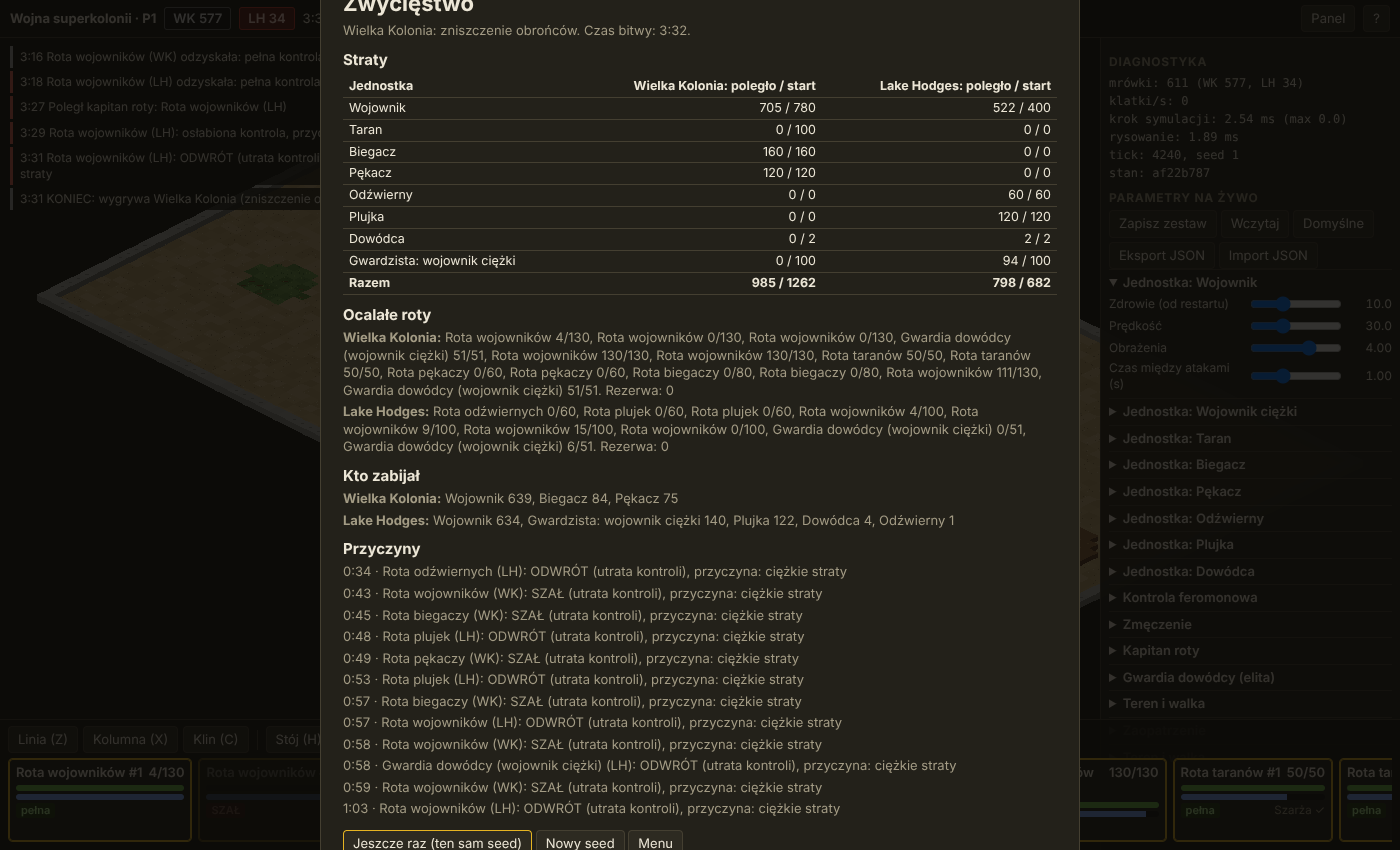
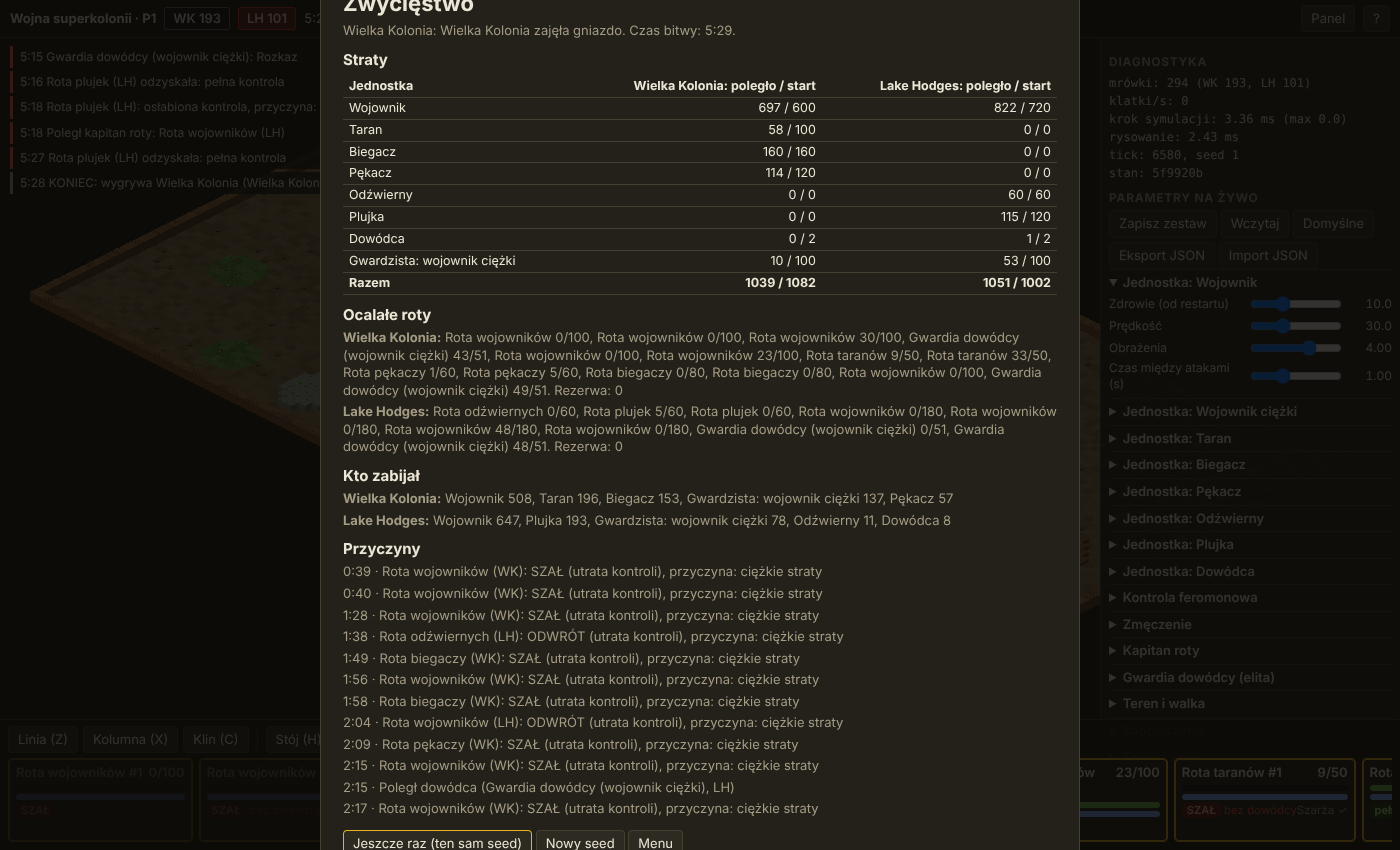
P1: nowa mapa (dno lasu, 2000x1200): pień z przesmykiem i bocznicą, głazy, korzenie, kłody; 6 przejść relaksacji kolizji
Claude-Session: https://claude.ai/code/session_015bWVywXDmmptfndPZFffbj

diff --git a/prototypy/p1-bitwa.html b/prototypy/p1-bitwa.html
@@ -90,7 +90,7 @@ table.rep{border-collapse:collapse;width:100%;margin:6px 0;font-size:12.5px}tabl
       <button id="cWK" class="on">Wielka Kolonia (czarna)<small>Masa, centralne dowodzenie, tarany, biegacze, pękacze. Atakujesz.</small></button>
       <button id="cLH">Lake Hodges (czerwona)<small>Odźwierni, plujki z kwasem, wytrzymałe roty. Bronisz gniazda.</small></button>
     </div>
-    <div class="row" style="grid-template-columns:150px 1fr 50px"><span>Szerokość przejścia</span><input type="range" id="mPass" min="32" max="320" step="16" value="192"><span class="v" id="mPassV">192</span></div>
+    <div class="row" style="grid-template-columns:150px 1fr 50px"><span>Szerokość głównego przesmyku</span><input type="range" id="mPass" min="32" max="320" step="16" value="192"><span class="v" id="mPassV">192</span></div>
     <div class="row" style="grid-template-columns:150px 1fr 50px"><span>Ziarno (seed)</span><input type="number" id="mSeed" value="1" min="0" style="width:90px"><span></span></div>
     <div class="row" style="grid-template-columns:150px 1fr 50px"><span>Gwardia dowódcy</span><select id="mGuard"><option value="infantry">lekka (wojownicy)</option><option value="ciezki" selected>ciężka (wojownicy ciężcy)</option><option value="biegacz">biegacze</option><option value="taran">tarany</option><option value="pekacz">pękacze</option><option value="odzwierny">odźwierni</option><option value="plujka">plujki</option></select><span></span></div>
     <div class="row" style="grid-template-columns:150px 1fr 50px"><span>Tryb</span><label><input type="checkbox" id="mObs"> obserwuj (AI przeciw AI)</label><span></span></div>
@@ -105,14 +105,33 @@ table.rep{border-collapse:collapse;width:100%;margin:6px 0;font-size:12.5px}tabl
 <!-- Definicje jednostek, zasobów i scenariusza: wspólne dla P1-P3 (sekcja 15.1). -->
 <script type="application/json" id="defs">
 {
-  "world": { "w": 1600, "h": 960, "passage": 192, "timeLimit": 900, "wallX": 800, "nest": [1440, 480], "nestR": 64 },
+  "world": {
+    "w": 2000, "h": 1200, "passage": 192, "timeLimit": 900, "gap": [1000, 600], "nest": [1800, 600], "nestR": 64, "retreatWK": [110, 600],
+    "map": {
+      "comment": "Dno lasu: pień z głównym przesmykiem (szerokość = passage) i wąską bocznicą, kilka głazów, korzeni i kłód. Typy: wood, stone, root. Współrzędne to jednostki świata; gapTop i gapBottom to brzegi głównego przesmyku.",
+      "obstacles": [
+        { "type": "wood", "r": 24, "line": [[1010, 0], [1000, 140]] },
+        { "type": "wood", "r": 24, "line": [[1000, 205], [985, 300], [1015, 420], "gapTop"] },
+        { "type": "wood", "r": 24, "line": ["gapBottom", [1020, 820], [985, 1000], [1005, 1200]] },
+        { "type": "stone", "r": 62, "at": [520, 330] },
+        { "type": "root", "r": 72, "at": [570, 880] },
+        { "type": "wood", "r": 14, "line": [[640, 520], [705, 700]] },
+        { "type": "stone", "r": 55, "at": [560, 1090] },
+        { "type": "stone", "r": 66, "at": [1350, 320] },
+        { "type": "stone", "r": 72, "at": [1390, 900] },
+        { "type": "wood", "r": 14, "line": [[1500, 470], [1570, 740]] },
+        { "type": "root", "r": 60, "at": [1650, 200] }
+      ],
+      "coverRandom": 14
+    }
+  },
   "params": {
     "cover": 0.7,
     "shieldMult": 0.4,
     "closedMult": 0.7,
     "cdScale": 1.5,
     "dmgVariance": 0.3,
-    "collision": { "passes": 3, "fightMass": 8 },
+    "collision": { "passes": 6, "fightMass": 8 },
     "captain": { "shock": 20, "dur": 15, "regenPenalty": 4 },
     "elite": { "hp": 1.7, "dmg": 1.3, "cd": 0.85, "armor": 0.12, "speed": 1.0 },
     "control": {
@@ -151,36 +170,36 @@ table.rep{border-collapse:collapse;width:100%;margin:6px 0;font-size:12.5px}tabl
     "attacker": "WK",
     "sides": {
       "WK": {
-        "name": "Wielka Kolonia", "guardType": "ciezki", "regenBonus": 0, "supply": 60, "reserve": 150, "auraR": 260, "spawn": [50, 200, 140, 560],
+        "name": "Wielka Kolonia", "guardType": "infantry", "regenBonus": 0, "supply": 60, "reserve": 150, "auraR": 260, "spawn": [50, 300, 140, 600],
         "companies": [
-          { "role": "assault", "at": [340, 480], "face": 0, "units": { "infantry": 100 }, "delay": 0 },
-          { "role": "assault", "at": [340, 250], "face": 0, "units": { "infantry": 100 }, "delay": 5 },
-          { "role": "assault", "at": [340, 710], "face": 0, "units": { "infantry": 100 }, "delay": 5 },
-          { "role": "command", "at": [235, 480], "face": 0, "units": { "@guard": 50, "dowodca": 1 }, "delay": 16 },
-          { "role": "assault", "at": [235, 250], "face": 0, "units": { "infantry": 100 }, "delay": 22 },
-          { "role": "assault", "at": [235, 710], "face": 0, "units": { "infantry": 100 }, "delay": 22 },
-          { "role": "taran",   "at": [135, 400], "face": 0, "units": { "taran": 50 }, "delay": 0 },
-          { "role": "taran",   "at": [135, 560], "face": 0, "units": { "taran": 50 }, "delay": 2 },
-          { "role": "pekacz",  "at": [135, 240], "face": 0, "units": { "pekacz": 60 }, "delay": 10 },
-          { "role": "pekacz",  "at": [135, 720], "face": 0, "units": { "pekacz": 60 }, "delay": 12 },
-          { "role": "raider",  "at": [45, 320],  "face": 0, "units": { "biegacz": 80 }, "delay": 18 },
-          { "role": "raider",  "at": [45, 640],  "face": 0, "units": { "biegacz": 80 }, "delay": 22 },
-          { "role": "assault", "at": [45, 480],  "face": 0, "units": { "infantry": 100 }, "delay": 26 },
-          { "role": "command", "at": [235, 880], "face": 0, "units": { "@guard": 50, "dowodca": 1 }, "delay": 24 }
+          { "role": "assault", "at": [340, 600], "face": 0, "units": { "infantry": 100 }, "delay": 0 },
+          { "role": "assault", "at": [340, 370], "face": 0, "units": { "infantry": 100 }, "delay": 5 },
+          { "role": "assault", "at": [340, 830], "face": 0, "units": { "infantry": 100 }, "delay": 5 },
+          { "role": "command", "at": [235, 600], "face": 0, "units": { "@guard": 50, "dowodca": 1 }, "delay": 0 },
+          { "role": "assault", "at": [235, 370], "face": 0, "units": { "infantry": 100 }, "delay": 22 },
+          { "role": "assault", "at": [235, 830], "face": 0, "units": { "infantry": 100 }, "delay": 22 },
+          { "role": "taran",   "at": [135, 520], "face": 0, "units": { "taran": 50 }, "delay": 0 },
+          { "role": "taran",   "at": [135, 680], "face": 0, "units": { "taran": 50 }, "delay": 2 },
+          { "role": "pekacz",  "at": [135, 360], "face": 0, "units": { "pekacz": 60 }, "delay": 10 },
+          { "role": "pekacz",  "at": [135, 840], "face": 0, "units": { "pekacz": 60 }, "delay": 12 },
+          { "role": "raider",  "at": [45, 440],  "face": 0, "units": { "biegacz": 80 }, "delay": 18 },
+          { "role": "raider",  "at": [45, 760],  "face": 0, "units": { "biegacz": 80 }, "delay": 22 },
+          { "role": "assault", "at": [45, 600],  "face": 0, "units": { "infantry": 100 }, "delay": 26 },
+          { "role": "command", "at": [235, 1000], "face": 0, "units": { "@guard": 50, "dowodca": 1 }, "delay": 0 }
         ]
       },
       "LH": {
-        "name": "Lake Hodges", "guardType": "ciezki", "regenBonus": 2, "supply": 60, "reserve": 150, "auraR": 170, "spawn": [1410, 450, 60, 60],
+        "name": "Lake Hodges", "guardType": "ciezki", "regenBonus": 2, "supply": 60, "reserve": 150, "auraR": 170, "spawn": [1770, 570, 60, 60],
         "companies": [
-          { "role": "plug", "closed": true, "spacing": 10.4, "at": [800, 480], "face": 3.14159, "units": { "odzwierny": 60 } },
-          { "role": "artillery", "at": [865, 400], "face": 3.14159, "units": { "plujka": 60 } },
-          { "role": "artillery", "at": [865, 570], "face": 3.14159, "units": { "plujka": 60 } },
-          { "role": "reserve", "at": [940, 270], "face": 3.14159, "units": { "infantry": 180 } },
-          { "role": "reserve", "at": [940, 690], "face": 3.14159, "units": { "infantry": 180 } },
-          { "role": "reserve", "at": [1070, 370], "face": 3.14159, "units": { "infantry": 180 } },
-          { "role": "reserve", "at": [1070, 600], "face": 3.14159, "units": { "infantry": 180 } },
-          { "role": "reserve", "at": [950, 480], "face": 3.14159, "units": { "@guard": 50, "dowodca": 1 } },
-          { "role": "reserve", "at": [1170, 485], "face": 3.14159, "units": { "@guard": 50, "dowodca": 1 } }
+          { "role": "plug", "closed": true, "spacing": 10.4, "at": [1000, 600], "face": 3.14159, "units": { "odzwierny": 60 } },
+          { "role": "artillery", "at": [1065, 520], "face": 3.14159, "units": { "plujka": 60 } },
+          { "role": "artillery", "at": [1065, 690], "face": 3.14159, "units": { "plujka": 60 } },
+          { "role": "reserve", "at": [1140, 390], "face": 3.14159, "units": { "infantry": 180 } },
+          { "role": "reserve", "at": [1140, 810], "face": 3.14159, "units": { "infantry": 180 } },
+          { "role": "reserve", "at": [1270, 490], "face": 3.14159, "units": { "infantry": 180 } },
+          { "role": "reserve", "at": [1270, 720], "face": 3.14159, "units": { "infantry": 180 } },
+          { "role": "reserve", "at": [1150, 600], "face": 3.14159, "units": { "@guard": 50, "dowodca": 1 } },
+          { "role": "reserve", "at": [1370, 605], "face": 3.14159, "units": { "@guard": 50, "dowodca": 1 } }
         ]
       }
     }
@@ -263,30 +282,42 @@ const Sim = (function () {
     sim.rebuildTables = buildTables;
 
     // ---------- teren ----------
-    // 0 otwarte, 1 mur (ludzki), 2 osłona (trawa, patyki), 3 mur gniazda
+    // 0 otwarte, 1 pień lub kłoda, 2 osłona (mech, paprocie), 3 mur gniazda, 4 głaz, 5 korzenie; blokują 1, 3, 4 i 5
     const grid = new Uint8Array(COLS * ROWS);
-    const midY = H / 2, wallX = defs.world.wallX, passage = defs.world.passage;
+    const BLK = new Uint8Array([0, 1, 0, 1, 1, 1]);
+    const gap = defs.world.gap, passage = defs.world.passage;
     const nestC = defs.world.nest;
     (function buildTerrain() {
+      const TYPE = { wood: 1, stone: 4, root: 5 };
+      const pt = (p) => (p === 'gapTop' ? [gap[0], gap[1] - passage / 2] : p === 'gapBottom' ? [gap[0], gap[1] + passage / 2] : p);
+      const segDist = (px, py, a, b) => { const dx = b[0] - a[0], dy = b[1] - a[1], l2 = dx * dx + dy * dy || 1; const t = Math.max(0, Math.min(1, ((px - a[0]) * dx + (py - a[1]) * dy) / l2)); return Math.hypot(px - a[0] - t * dx, py - a[1] - t * dy); };
+      const obs = defs.world.map.obstacles.map((o) => ({ v: TYPE[o.type], r: o.r, at: o.at, line: o.line && o.line.map(pt) }));
       for (let r = 0; r < ROWS; r++) for (let c = 0; c < COLS; c++) {
         const cx = (c + 0.5) * CELL, cy = (r + 0.5) * CELL;
         let v = 0;
         if (r === 0 || c === 0 || r === ROWS - 1 || c === COLS - 1) v = 1;
-        else if (Math.abs(cx - wallX) < CELL && Math.abs(cy - midY) > passage / 2) v = 1;
         else {
+          for (const o of obs) {
+            let d;
+            if (o.at) d = Math.hypot(cx - o.at[0], cy - o.at[1]);
+            else { d = 1e9; for (let k = 0; k + 1 < o.line.length; k++) d = Math.min(d, segDist(cx, cy, o.line[k], o.line[k + 1])); }
+            if (d < o.r) { v = o.v; break; }
+          }
+          // główny przesmyk zawsze otwarty na całej szerokości
+          if (Math.abs(cx - gap[0]) < 40 && Math.abs(cy - gap[1]) <= passage / 2) v = 0;
           const dx = cx - nestC[0], dy = cy - nestC[1], d = Math.hypot(dx, dy);
           if (d > 4.3 * CELL && d < 5.5 * CELL) {
             let da = Math.atan2(dy, dx) - Math.PI;
             da = Math.atan2(Math.sin(da), Math.cos(da));
-            if (Math.abs(da) > 0.4) v = 3;
-          }
+            v = Math.abs(da) > 0.4 ? 3 : 0;
+          } else if (d <= 4.3 * CELL) v = 0;
         }
         grid[r * COLS + c] = v;
       }
-      const patches = 12;
+      const patches = defs.world.map.coverRandom;
       for (let k = 0; k < patches; k++) {
         const west = k < patches / 2;
-        const px = west ? rngMap.range(180, 700) : rngMap.range(900, 1300);
+        const px = west ? rngMap.range(150, gap[0] - 150) : rngMap.range(gap[0] + 150, nestC[0] - 200);
         const py = rngMap.range(100, H - 100), pr = rngMap.range(2, 4) * CELL;
         for (let r = 0; r < ROWS; r++) for (let c = 0; c < COLS; c++) {
           if (grid[r * COLS + c] !== 0) continue;
@@ -298,7 +329,7 @@ const Sim = (function () {
     function cellAt(x, y) { return ((y / CELL) | 0) * COLS + ((x / CELL) | 0); }
     function blocked(x, y) {
       if (x < 0 || y < 0 || x >= W || y >= H) return true;
-      const v = grid[cellAt(x, y)]; return v === 1 || v === 3;
+      return BLK[grid[cellAt(x, y)]] === 1;
     }
     function losClear(x0, y0, x1, y1) {
       const dx = x1 - x0, dy = y1 - y0, d = Math.hypot(dx, dy), n = Math.ceil(d / 6);
@@ -324,7 +355,7 @@ const Sim = (function () {
       f = new Int32Array(COLS * ROWS).fill(-1);
       const q = [key]; f[key] = 0;
       const nb = [[1, 0, 10], [-1, 0, 10], [0, 1, 10], [0, -1, 10], [1, 1, 14], [1, -1, 14], [-1, 1, 14], [-1, -1, 14]];
-      const isB = (i) => grid[i] === 1 || grid[i] === 3;
+      const isB = (i) => BLK[grid[i]] === 1;
       for (let h = 0; h < q.length; h++) {
         const cur = q[h], cx = cur % COLS, cy = (cur / COLS) | 0;
         for (const [dx, dy, w] of nb) {
@@ -560,7 +591,7 @@ const Sim = (function () {
         for (const c of list) useAbility(c);
       }
     }
-    function retreatPoint(c) { return c.side === 0 ? nearestOpen(110, 480) : nearestOpen(nestC[0] - 20, nestC[1]); }
+    function retreatPoint(c) { return c.side === 0 ? nearestOpen(defs.world.retreatWK[0], defs.world.retreatWK[1]) : nearestOpen(nestC[0] - 20, nestC[1]); }
     function useAbility(c) {
       if (tick < c.abilCdUntil || !c.abilType) return false;
       const u = defs.units[c.abilType], ab = u.ability;
@@ -894,7 +925,6 @@ const Sim = (function () {
       const sn = SIDES[s], t = tick / HZ, mine = comps.filter((c) => c.side === s && c.alive > 0), foes = comps.filter((c) => c.side !== s && c.alive > 0);
       if (!foes.length) return;
       const attacker = defs.scenario.attacker === sn;
-      const gap = [wallX, midY];
       for (const c of mine) {
         if (c.cstate === CS_LOST) continue;
         const foeNear = foes.filter((e) => dist(c, e) < 260).sort((a, b) => dist(c, a) - dist(c, b));
@@ -916,7 +946,7 @@ const Sim = (function () {
             if (tick >= c.aiUntil) order(c, 'attack', nestC[0], nestC[1], 3);
             if (tgt && dist(c, tgt) < 110) useAbility(c);
           } else {
-            if (c.alive < 0.3 * c.initial && c.cstate !== CS_FULL) { order(c, 'retreat', 110, midY, 8); }
+            if (c.alive < 0.3 * c.initial && c.cstate !== CS_FULL) { order(c, 'retreat', defs.world.retreatWK[0], defs.world.retreatWK[1], 8); }
             else if (tick >= c.aiUntil) order(c, 'attack', nestC[0], nestC[1], 3);
             if (c.role === 'taran' && nearestFoe && dist(c, nearestFoe) < 110) useAbility(c);
           }
@@ -1102,7 +1132,8 @@ if (typeof module !== 'undefined') module.exports = Sim;
   // cień pada w prawo-dół. Mrówki są malowane w wysokiej rozdzielczości (atlas 2,5x większy niż rozmiar na ekranie).
   const ISO = {
     S: 2, pad: 24,
-    get ox() { return 960 * 0.5 * this.S + this.pad; },
+    H: 960, // wysokość świata (ustawiana przy starcie sceny)
+    get ox() { return this.H * 0.5 * this.S + this.pad; },
     sx(x, y) { return this.ox + (x - y) * 0.5 * this.S; },
     sy(x, y) { return (x + y) * 0.25 * this.S + this.pad; },
     wx(cx, cy) { const u = (cx - this.ox) * 2 / this.S, v = (cy - this.pad) * 4 / this.S; return (u + v) / 2; },
@@ -1184,42 +1215,61 @@ if (typeof module !== 'undefined') module.exports = Sim;
     tile(c, cx, top - h, cTop);
   }
   function makeIsoTerrain(sim) {
-    const C = sim.CELL, cols = sim.COLS, rows = sim.ROWS, S = ISO.S, wallH = 6 * S;
+    const C = sim.CELL, cols = sim.COLS, rows = sim.ROWS, S = ISO.S;
     const [cw, ch] = ISO.size(sim);
     const cv = document.createElement('canvas'); cv.width = cw; cv.height = ch; const c = cv.getContext('2d');
     const nz = (x, y, s) => { let h = Math.imul(x * 374761393 + y * 668265263 + s * 2246822519, 1274126177); h = (h ^ (h >>> 13)) >>> 0; return (h % 1000) / 1000; };
     const nest = sim.defs.world.nest, nestR = sim.defs.world.nestR;
-    const SAND = ['#cdb27c', '#c8ac75', '#d2b985', '#c3a66f'], DARKSAND = ['#a98a5a', '#a2835a', '#b0925f', '#9c7e52'];
-    const GRASS = ['#6d9a46', '#639040', '#76a24c', '#5b873a'];
+    // dno lasu: próchnica, ściółka, mech; pnie i kłody z korą, omszałe głazy, korzenie
+    const HUM = ['#85714d', '#7e6b47', '#8c7853', '#76643f'], DIRT = ['#9a7f58', '#947a54', '#a08561', '#8a704c'];
+    const MOSS = ['#5f8f3e', '#578636', '#69984a', '#4f7d33'];
     for (let d = 0; d < rows + cols - 1; d++) for (let r = Math.max(0, d - cols + 1); r <= Math.min(rows - 1, d); r++) {
       const col = d - r, v = sim.grid[r * cols + col], cx = ISO.sx(col * C, r * C), top = ISO.sy(col * C, r * C);
       const n = nz(col, r, 1), k = Math.floor(n * 4), mx = (col + 0.5) * C, my = (r + 0.5) * C, dn = Math.hypot(mx - nest[0], my - nest[1]);
-      const px = (i, a, b) => cx - 6 * S + Math.floor(nz(col, r, i) * 12 * S) % (12 * S), py = (i, a, b) => top + 1 + Math.floor(nz(col, r, i + 50) * (8 * S - 3));
-      if (v === 1) { tile(c, cx, top, '#9a9a94'); isoBox(c, cx, top, wallH, k % 2 ? '#b8b8b1' : '#b2b2ab', '#92928c', '#74746f'); c.fillStyle = 'rgba(60,60,56,0.35)'; c.fillRect(cx - 3, top - wallH + 8, 6, 1); }
-      else if (v === 3) { tile(c, cx, top, DARKSAND[k]); isoBox(c, cx, top, wallH - 2, '#98693b', '#78512d', '#583a20'); c.fillStyle = '#b88854'; c.fillRect(cx - 4, top - wallH + 8, 3, 1); }
+      const px = (i) => cx - 6 * S + Math.floor(nz(col, r, i) * 12 * S) % (12 * S), py = (i) => top + 1 + Math.floor(nz(col, r, i + 50) * (8 * S - 3));
+      const borderWall = r === 0 || c === 0 || r === rows - 1 || col === 0 || col === cols - 1;
+      if (v === 1) {
+        // pień, kłoda lub drzewo na brzegu: kora w trzech tonach z pionowymi rysami
+        const h = borderWall ? 22 : 16;
+        tile(c, cx, top, '#5a4328'); isoBox(c, cx, top, h, k % 2 ? '#9a7040' : '#926a3c', '#734f2d', '#523820');
+        c.fillStyle = 'rgba(40,26,12,0.55)'; for (let t = 0; t < 3; t++) c.fillRect(cx - 12 + t * 7 + (k % 3), top - h + 5 + t * 2, 1, 5 + (t % 2) * 2);
+        c.fillStyle = '#a77d4a'; c.fillRect(cx - 4, top - h + 2, 5, 1);
+      } else if (v === 4) {
+        // głaz: szary kamień z mchem od północy
+        const h = 14;
+        tile(c, cx, top, HUM[k]); isoBox(c, cx, top, h, '#99a095', '#767d73', '#585e56');
+        c.fillStyle = '#5f8238'; c.fillRect(cx - 7 + (k % 3) * 3, top - h + 1, 7, 2); c.fillRect(cx - 12, top - h + 7, 3, 2);
+        c.fillStyle = '#b8bfb2'; c.fillRect(cx - 4, top - h + 2 + (k % 2), 4, 1);
+      } else if (v === 5) {
+        // splątane korzenie: niska, ciemna bryła z jasnymi żyłami
+        const h = 6;
+        tile(c, cx, top, HUM[k]); isoBox(c, cx, top, h, '#6b4d2b', '#553b21', '#3d2b17');
+        c.fillStyle = '#8e6a3c'; c.fillRect(cx - 9 + (k % 3) * 4, top - h + 3, 10, 1); c.fillRect(cx + 1, top - h + 7, 7, 1);
+      } else if (v === 3) { tile(c, cx, top, DIRT[k]); isoBox(c, cx, top, 8, '#8a6238', '#6c4a2a', '#4e351f'); c.fillStyle = '#b08350'; c.fillRect(cx - 4, top - 6, 3, 1); }
       else if (v === 2) {
-        tile(c, cx, top, GRASS[k]);
-        for (let t = 0; t < 7; t++) { c.fillStyle = t % 3 ? '#4a7430' : '#8fba58'; c.fillRect(px(10 + t), py(10 + t), 1, 2 + (t % 2)); }
-        if (n > 0.84) { c.fillStyle = '#6b4a24'; c.fillRect(cx - 7, top + 10, 11, 1); c.fillStyle = '#8f6a38'; c.fillRect(cx - 7, top + 9, 9, 1); }
+        tile(c, cx, top, MOSS[k]);
+        for (let t = 0; t < 8; t++) { c.fillStyle = t % 3 ? '#35581f' : '#8fbc5a'; c.fillRect(px(10 + t), py(10 + t), 1, 2 + (t % 2)); }
+        if (n > 0.9) { // grzyb: czerwony kapelusz z kropkami na jasnej nóżce
+          const gx = px(40), gy = py(41); c.fillStyle = '#e8dfc8'; c.fillRect(gx, gy + 2, 2, 3); c.fillStyle = '#c0392b'; c.fillRect(gx - 2, gy, 6, 3); c.fillStyle = '#fff1e0'; c.fillRect(gx - 1, gy + 1, 1, 1); c.fillRect(gx + 2, gy, 1, 1);
+        }
       } else {
-        tile(c, cx, top, dn < nestR + 14 ? DARKSAND[k] : SAND[k]);
-        for (let t = 0; t < 4; t++) { const nn = nz(col, r, 30 + t); c.fillStyle = nn > 0.5 ? 'rgba(112,88,52,0.55)' : 'rgba(232,214,168,0.7)'; c.fillRect(px(30 + t), py(30 + t), nn > 0.8 ? 2 : 1, 1); }
-        if (n < 0.05) { c.fillStyle = '#b09a70'; c.fillRect(cx - 2, top + 8, 4, 2); c.fillStyle = '#e0cc9c'; c.fillRect(cx - 2, top + 8, 2, 1); }
+        tile(c, cx, top, dn < nestR + 14 ? DIRT[k] : HUM[k]);
+        // ściółka: liście w ciepłych barwach, patyki, kamyki
+        for (let t = 0; t < 5; t++) { const nn = nz(col, r, 30 + t); c.fillStyle = nn > 0.7 ? '#a8672c' : nn > 0.4 ? '#8d6b2f' : '#6b5a2a'; c.fillRect(px(30 + t), py(30 + t), nn > 0.8 ? 3 : 2, 1); }
+        if (n > 0.93) { c.fillStyle = '#2f2418'; c.fillRect(cx - 5, top + 9, 8, 1); c.fillStyle = '#6a4d2a'; c.fillRect(cx - 5, top + 8, 7, 1); }
+        else if (n < 0.04) { c.fillStyle = '#7d7f76'; c.fillRect(cx - 2, top + 8, 4, 2); c.fillStyle = '#a8aba0'; c.fillRect(cx - 2, top + 8, 2, 1); }
       }
     }
     // gniazdo: kopiec w trzech tonach i ciemne wejście od strony zachodniej
     const ell = (x, y, R, col) => { c.fillStyle = col; c.beginPath(); c.ellipse(ISO.sx(x, y), ISO.sy(x, y), ISO.rx(R), ISO.ry(R), 0, 0, 7); c.fill(); };
-    ell(nest[0], nest[1], nestR, 'rgba(120,86,48,0.28)'); ell(nest[0], nest[1], nestR * 0.72, 'rgba(120,86,48,0.3)'); ell(nest[0], nest[1], nestR * 0.42, 'rgba(70,46,24,0.4)');
-    ell(nest[0] - 78, nest[1], 7, '#2b1b0d');
-    // znaczniki przejścia: pasy ostrzegawcze na końcach muru
-    const wx = sim.defs.world.wallX, my = sim.H / 2, hw = sim.defs.world.passage / 2;
-    for (const yy of [my - hw, my + hw]) for (let t = 0; t < 5; t++) { c.fillStyle = t % 2 ? '#2a2a2a' : '#e6b422'; const q = yy + (yy < my ? -3 : 3); c.fillRect(Math.round(ISO.sx(wx, q)) - 10 + t * 4, Math.round(ISO.sy(wx, q)) - wallH - 1, 4, 3); }
+    ell(nest[0], nest[1], nestR, 'rgba(120,86,48,0.3)'); ell(nest[0], nest[1], nestR * 0.72, 'rgba(120,86,48,0.32)'); ell(nest[0], nest[1], nestR * 0.42, 'rgba(60,40,20,0.45)');
+    ell(nest[0] - 78, nest[1], 7, '#241508');
     return PIXI.Texture.from(cv);
   }
   /*ISO-END*/
 
   function setupScene(sim) {
-    world.removeChildren(); gGround.clear(); labels.removeChildren();
+    ISO.H = sim.H; world.removeChildren(); gGround.clear(); labels.removeChildren();
     if (!atlas) atlas = makeAntAtlas(sim.names, sim.kinds);
     terrainSpr = new PIXI.Sprite(makeIsoTerrain(sim));
     antsPC = new PIXI.ParticleContainer(sim.cap, { vertices: true, position: true, rotation: false, uvs: true, tint: true }, 16384, false);

diff --git a/tests/p1-core.test.js b/tests/p1-core.test.js
@@ -161,7 +161,7 @@ test('granice: brak NaN, kontrola 0-100, kwas >= 0, mrówki w mapie i poza muram
         if (!isFinite(x) || !isFinite(y) || !isFinite(sim.hp[i])) { bad = 'NaN w mrówce ' + i; break; }
         if (x < 0 || y < 0 || x > sim.W || y > sim.H) { bad = 'mrówka poza mapą'; break; }
         const g = sim.grid[((y / 16) | 0) * sim.COLS + ((x / 16) | 0)];
-        if (g === 1 || g === 3) { bad = 'mrówka w murze, tick ' + k; break; }
+        if ([1, 3, 4, 5].includes(g)) { bad = 'mrówka w przeszkodzie, tick ' + k; break; }
       }
       for (const c of sim.comps) {
         if (!(c.control >= 0 && c.control <= 100)) bad = 'kontrola poza zakresem: ' + c.name;
@@ -186,13 +186,13 @@ test('geometria plugu: nieśmiertelny zamknięty plug nie przepuszcza nikogo prz
   const out = [];
   for (const w of [64, 128, 256]) {
     const sim = make(1, w, (d) => { d.units.odzwierny.hp = 1e7; d.params.supply.acidStart = 0; });
-    const plug = sim.comps.find((c) => c.role === 'plug'); let leak = 0, maxPressure = 0;
+    const plug = sim.comps.find((c) => c.role === 'plug'), gp = sim.defs.world.gap; let leak = 0, maxPressure = 0;
     const depth = Math.ceil(plug.initial / plug.fcols) * plug.spacing / 2;
     for (let k = 0; k < 20 * 90 && !sim.result; k++) {
       sim.step();
       if (k % 20 === 10) {
         let press = 0;
-        for (let i = 0; i < sim.count; i++) if (sim.alive[i] && sim.side[i] === 0) { if (sim.x[i] > 800 + depth + 12) leak++; else if (sim.x[i] > 740 && Math.abs(sim.y[i] - 480) < w / 2 + 40) press++; }
+        for (let i = 0; i < sim.count; i++) if (sim.alive[i] && sim.side[i] === 0) { if (sim.x[i] > gp[0] + depth + 12) leak++; else if (sim.x[i] > gp[0] - 60 && Math.abs(sim.y[i] - gp[1]) < w / 2 + 40) press++; }
         if (press > maxPressure) maxPressure = press;
       }
     }
